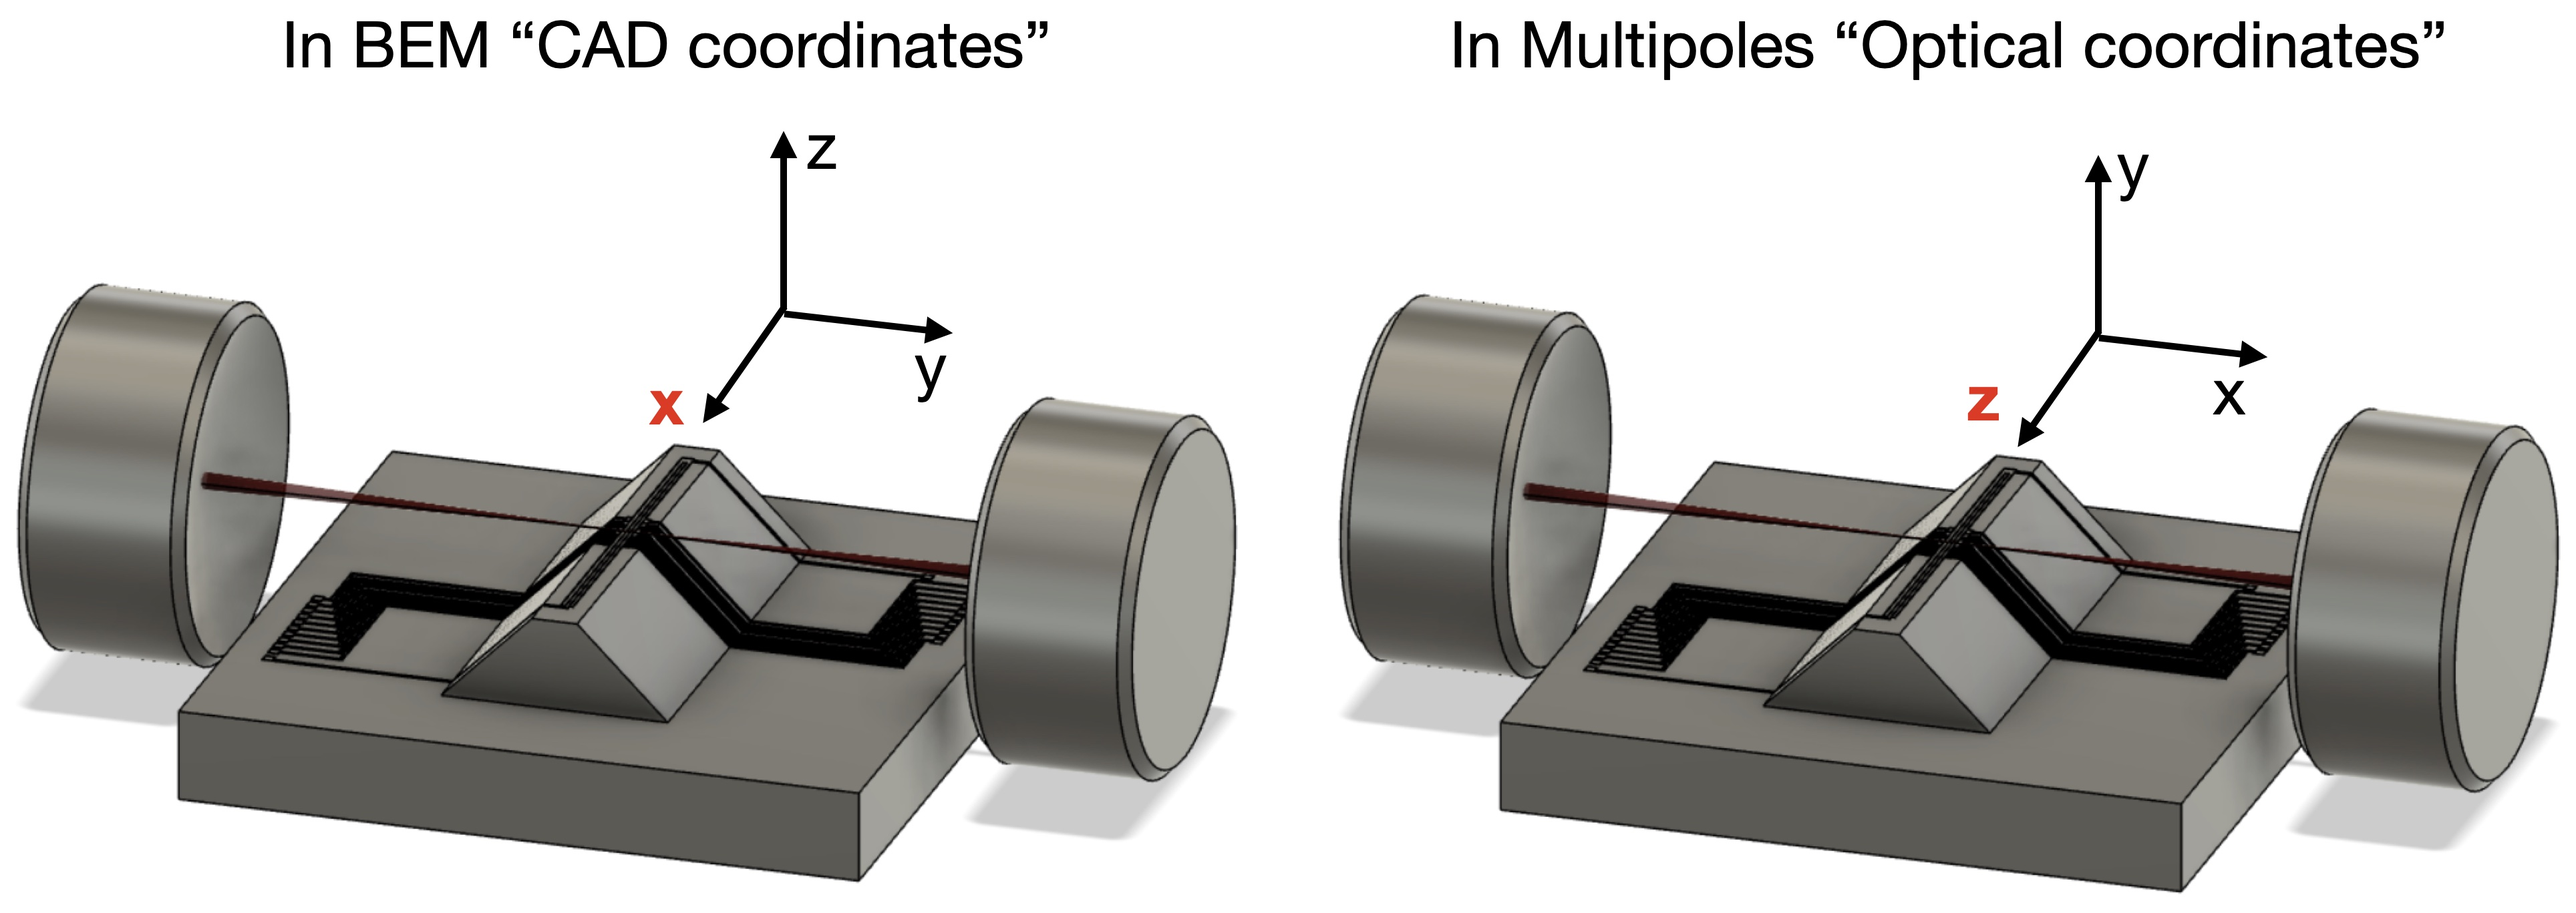
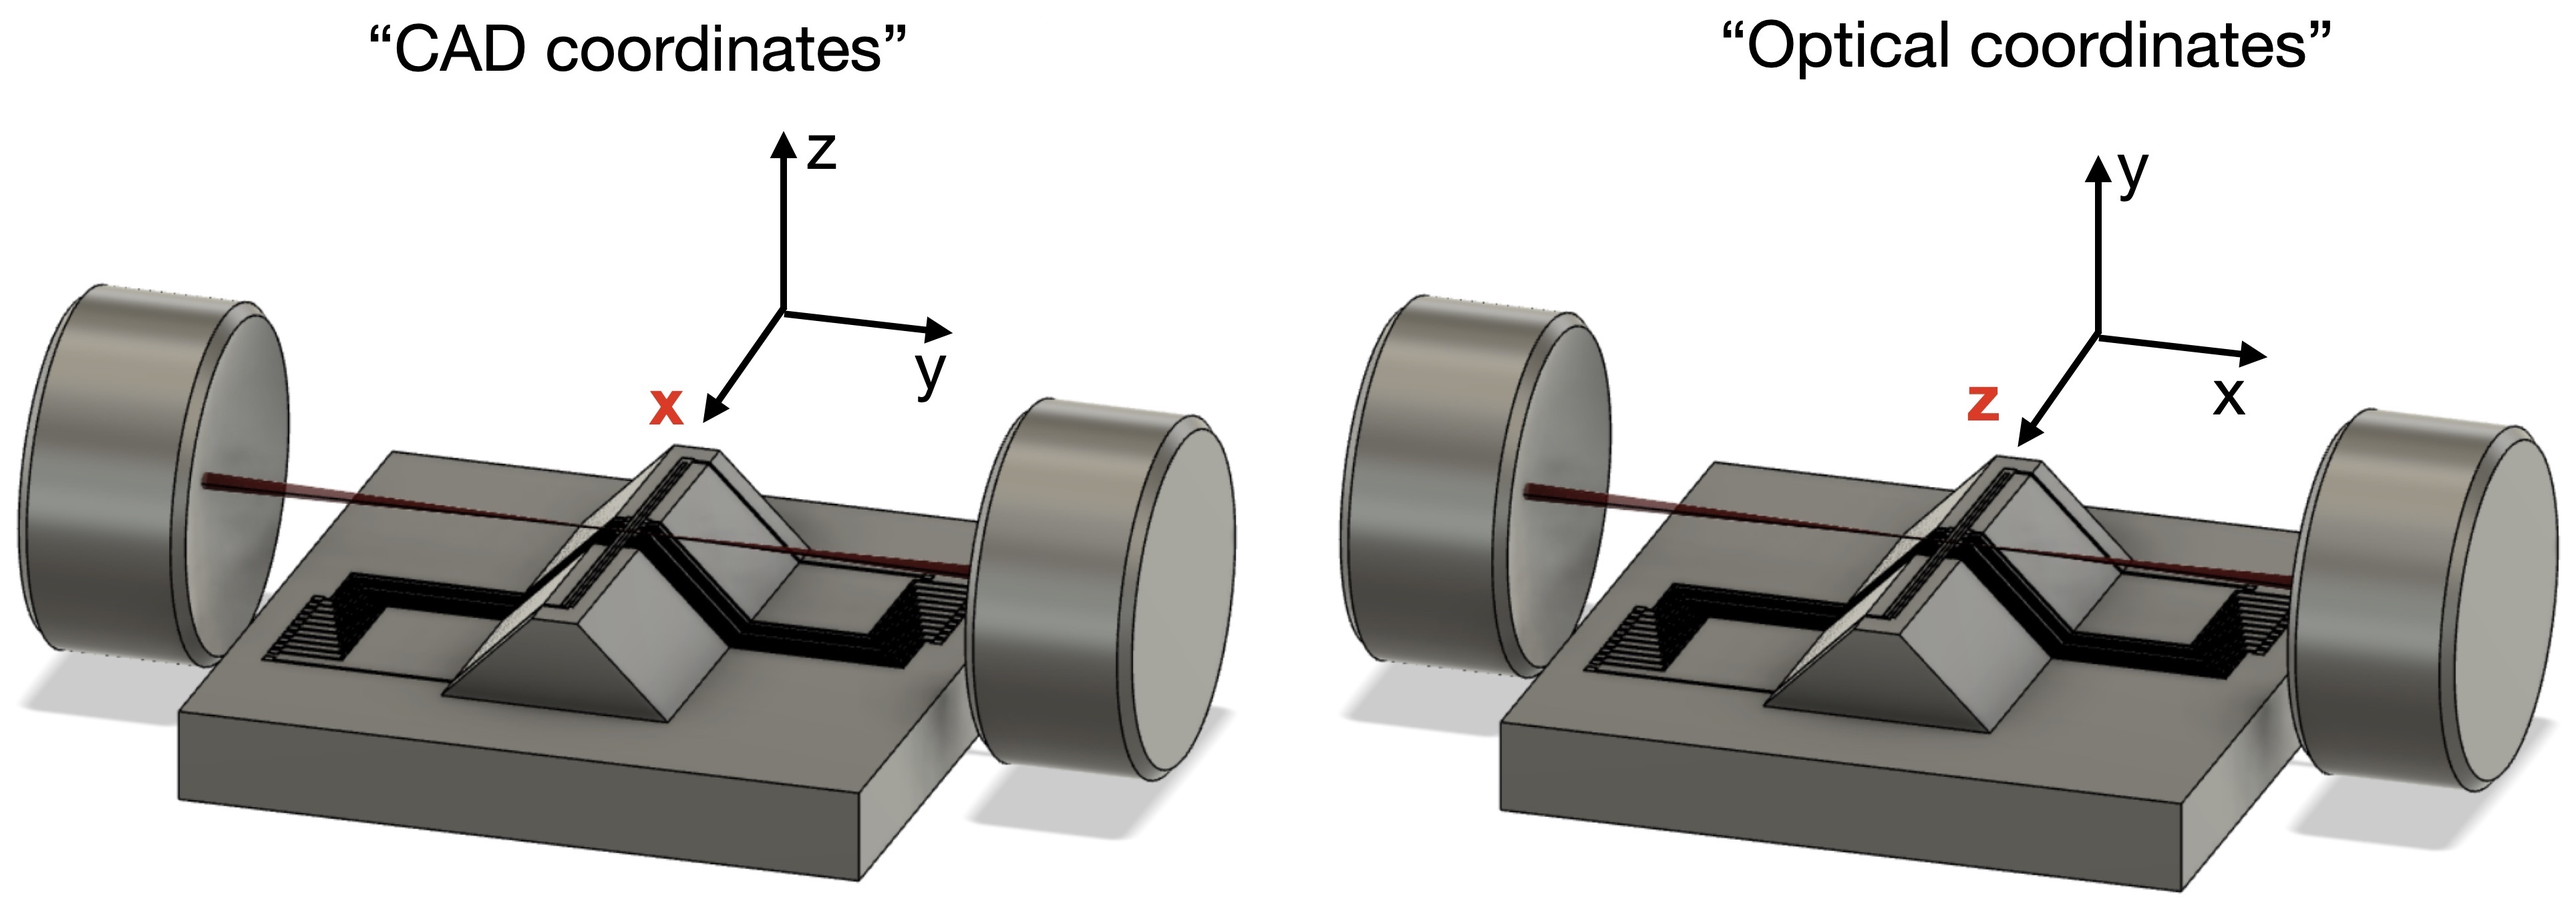
update documentation

Changed region(s): [[0.5602, 0.0, 0.9647, 0.0921], [0.0934, 0.0, 0.4046, 0.0921]]

diff --git a/README.md b/README.md
@@ -2,6 +2,8 @@
 
 For my simulations of the QuantNET trap, I created a fork of [haeffnerlab/bem](https://github.com/haeffnerlab/bem) called BEM-Savio. This is intended to be a leaner and better documented version of the BEM with further support for running BEM on Berkeley's high performance computing cluster (BRC-HPC) called Savio. 
 
+*Updated: Sept. 2022 YJZ*
+
 ## Table of contents
 - [What is BRC-HPC Savio?](#id-1)
 - [Savio Basics](#id-2)
@@ -15,7 +17,13 @@ For my simulations of the QuantNET trap, I created a fork of [haeffnerlab/bem](h
 
 ## What is BRC-HPC Savio?<div id='id-1'/>
 
-Explain here
+BRC-HPC is a high-performance computing cluster run by Berkeley Research Computing (BRC). The cluster consists broadly of login nodes and compute partitions. Data and software are stored in the cluster within your personal directory or a *shared group directory*. All nodes (login and compute) have access to these directories.
+
+![](imgs/savio.jpeg)
+
+SSH-ing into the cluster is handled by the 4 login nodes (a random node is assigned). You may test commands and scripts within the login in node, but the login nodes are a shared resource and not meant to handle large computational tasks.
+
+To schedule computational tasks (i.e. BEM simulations) to be run on a computing cluster, Savio uses slurm, a job scheduler. This is described in the sections below.
 
 ## Savio Basics <div id='id-2'/>
 
@@ -27,7 +35,7 @@ Note: if this is the first time you are reading this documentation, I suggest sk
 
 Our lab is granted 300,000 yearly service units via Hartmut's faculty allowance. To check that you have access to this computing allowance, login to [MyBRC](https://mybrc.brc.berkeley.edu/user/login) and check that the BRC Cluster Project ```fc_haeffnerbem``` appears on your dashboard. To be added to the project, please contact Hartmut or Yi.
 
-### Access to the Group Computing Allowance
+Note: service units are calculated based on the number of cores in the node you requested. E.g., if you run a program for 1 hr on a single core of a 16-core node, you will be charged 16 service units. Therefore, it is in your interest to use as many cores as possible (i.e. as many cores as the available memory allows).
 
 ### SSH
 
@@ -36,6 +44,53 @@ To ssh into the a login node,
 ```ssh your_BRC_username@hpc.brc.berkeley.edu```
 
 *The password is not your BRC pin*. One-time password authentication via your phone is required. If you have not already, set up OTP via Google Authenticator by following these [directions](https://docs-research-it.berkeley.edu/services/high-performance-computing/user-guide/setting-otp/). The password you must enter is ```XY``` where ```X``` is your BRC pin and immediately following with no spaces is ```Y``` the 6-digit one-time code from Authenticator. 
+
+### Access to the Group Computing Allowance
+
+The hardware configurations for each of the Savio partitions may be found [here](https://docs-research-it.berkeley.edu/services/high-performance-computing/user-guide/hardware-config/#Savio-Hardware). To find which accounts and partitions you have access to,
+
+```sacctmgr -p show associations user=$USER```
+
+![](imgs/sacctmgr.png)
+
+Since our simulations are generally limited by memory, we generally would like to choose bigmem nodes.
+
+### Modules and Custom Software
+
+A number of modules are installed in Savio. These modules can be loaded with the `module` command. For example, every time we run BEM, we want to first load Python (you can run Python without loading the Python module, but it is an outdated version).
+
+`module load python`
+
+**Note: this is a commonly forgotten step**
+
+We will install our own software in a conda environment in the shared directory `/global/home/groups/fc_haeffnerbem`. All users with access to our project has access to this shared directory. (Note: this might cause issues is multiple people want to run BEM at the same time. This can be resolved by installing and running BEM from each individual's personal directory.)
+
+A final quirk in using conda environments on Savio *not* using the normal `conda activate module_name` but rather,
+
+`source activate module_name`
+
+**This is also common source of error.**
+
+
+### Scheduling and Monitoring Jobs with slurm
+
+TODO TALK ABOUT SLURM SBATCH
+
+The ```sq``` module shows recent and pending jobs,
+
+```
+module load sq
+sq
+```
+
+
+Note: the directory where you run the ```sbatch``` command is the directory where you batch script runs.
+
+Note: you have to deactivate the enviornment before running the sbatch command
+
+### Transferring Data
+
+TODO
 
 ## Workflow Overview <div id='id-3'/>
 
@@ -75,10 +130,6 @@ Navigate to the bem-savio directory which contains ```setup.py``` and install BE
 
 ```pip install .```
 
-To optionally install Mayavi (for 3D visualization). Note: it is discouraged that you use Mayavi locally or on Savio. As of writing, Mayavi does not work on Savio. If Mayavi is not installed, you may see a warning that tvtk is not found when executing bem-savio. 
-
-```pip install 'vtk<9.1' 'PyQt5<5.16' ; pip install 'mayavi<4.8' ```
-
 To deactivate the environment,
 
 ```conda deactivate ``` 
@@ -109,10 +160,6 @@ Navigate to the bem-savio directory which contains ```setup.py``` and install BE
 
 ```pip install .```
 
-To optionally install Mayavi (for 3D visualization). Note: it is discouraged that you use Mayavi locally or on Savio. As of writing, Mayavi does not work on Savio. If Mayavi is not installed, you may see a warning that tvtk is not found when executing bem-savio. 
-
-```pip install 'vtk<9.1' 'PyQt5<5.16' ; pip install 'mayavi<4.8' ```
-
 To deactivate the environment,
 
 ```source deactivate ``` 
@@ -121,10 +168,10 @@ To deactivate the environment,
 
 ### Coordinates
 
-First, create a model of the trap in Fusion360. Check that you are working in CAD coordinates (see figure below). In other words, the trap axis in Fusion360 should be along the x-axis and the vertical direction should be along the z-axis.
+First, create a model of the trap in Fusion360. Check that your model follows optical coordinates (see figure below). In other words, the trap axis in Fusion360 should be along the z-axis and the vertical direction should be along the y-axis.
 
 ![imgs/coords.jpg](imgs/coords.jpg)
-<center><figcaption>During different stages of running bem-savio, two different conventions for coordinates are used. In CAD coordinates, x is along the trap axis and in optical coordinates z is along the trap axis.</figcaption></center>
+<center><figcaption>There are two standard conventions for coordinates. In CAD coordinates, x is along the trap axis and in optical coordinates z is along the trap axis. **Throughout BEM, we will always used optical coordinates.**</figcaption></center>
 
 Additionally, ensure that your trap model is a single body in Fusion360. When exporting, each body becomes its own STL and we wish to have the trap as a single STL.
 
@@ -189,7 +236,8 @@ Your directory tree should now look like this,
 	run.py
 	\jobs
 		\example
-			\...
+			\pyramidtrap.stl
+			\JOB_CONFIG.py
 		\your-job-name
 			\your-model.stl
 			\JOB_CONFIG.py
@@ -213,14 +261,19 @@ STL_file = 'your-model.stl'
 mesh_units = 1e-3
 
 # plotting settings
+plot_three_d = False
 show_plots = True
 save_plots = True
 save_plots_dpi = 1000
 ```
 
 - ```STL_file```: the name of the STL model located in your job directory. For example, ```STL_file = 'pyramidtrap.stl'```.
-- ```mesh_units``` are the units in which the STL file were exported.
-- `show_plots`, `save_plots`, and `save_plots_dpi`: toggles whether plots of the mesh before and after re-meshing should be shown/saved.
+- ```mesh_units``` are the units in which the STL file were exported. This should always be mm.
+- `show_plots`, `save_plots`, and `save_plots_dpi`: toggles whether plots of the mesh before and after re-meshing should be shown/saved. The default behavior is a 2D of the mesh projected to the z-x plane (i.e. top-down view). Optionally, `plot_three_d` toggles if the mesh should be plot in a 3D view.
+
+![imgs/coords.jpg](imgs/plots.jpg)
+<center><figcaption>Sample plots of the mesh, 2D and 3D.</figcaption></center>
+
 
 ### JOB_CONFIG: Naming Electrodes
 
@@ -256,16 +309,16 @@ In order to configure the grid, we must specify,
 ```
 # specify grid origin
 x0 = 0*1e-3
-y0 = 0*1e-3
-z0 = 2 + 75*1e-3
+y0 = 2 + 75*1e-3
+z0 = 0*1e-3
 
 # specify grid points
-Lx, Ly, Lz = 0.500, 0.100, 0.200 
+Lx, Ly, Lz = 0.100, 0.200, 0.500
 s = 0.0025
 sx, sy, sz = s, s, s
 ```
 
-In the example above, we define the origin as at the center of the xy-plane and at a height of 2000+75 microns because the raise trap surface is 2 mm tall and we expect our trapping height to be 75 microns. Furthermore, we define the set of grid points over a volume of 500 x 100 x 200 microns with points every 2.5 microns in all directions (recall ```mesh_units=1e-3```).
+In the example above, we define the origin as at the center of the zx-plane and at a height of y=2000+75 microns because the raise trap surface is 2 mm tall and we expect our trapping height to be 75 microns. Furthermore, we define the set of grid points over a volume of 100 x 200 x 500 microns with points every 2.5 microns in all directions (recall ```mesh_units=1e-3```).
 
 ### Compile Test!
 
@@ -281,32 +334,128 @@ python run.py [your-job-name]
 
 ### JOB_CONFIG: Re-meshing
 
-There are three main re-meshing operations:
+We use `mesh.triangulate` and `mesh.areas_from_constraints` to re-mesh. In `JOB_CONFIG.py`, define a new function `remesh`, and place all re-meshing code (e.g. calls to `mesh.triangulate`) within this function.
 
-1. Increasing density:
-2. Increasing density with areas from constraints: 
-3. Improving triangle quality: 
+```
+def remesh(mesh):
+	# TODO
+```
+
+There are three main re-meshing operations (note: the documentation for triangulate may be found [here](doc/Triangle_ Command line switches.pdf) and contains less-common options):
+
+**<u>1. Improving triangle quality</u>**: the quality of a triangle is defined by the minimum angle of all triangles. 
+
+![](imgs/quality.jpg)<center><figcaption>Bad and better quality triangles.</figcaption></center>
+
+To increase the quality (minimum angle) run,
+
+`mesh.triangulate(opts='q30Q')`
+
+where `q` is the quality flag, `30` specifies the minimum angle, and `Q` specifies that the triangulation should run quietly (little output). You may change `30` to any minimum angle desired. Note that (from the documentation): if the minimum angle is 20.7 deg or smaller, the triangulation algorithm is theoretically guaranteed to terminate;
+in practice, the algorithm often succeeds for minimum angles up to 33 deg; it usually doesn't terminate for angles above 34 deg. If the angle you specify is too large, the triangulation will not terminate.
+
+**<u>2. Increasing density</u>**: to increase the density of triangles, there is an option to specify the maximum triangle area. With this option, `mesh.triangulate` will add triangles until all triangles have an area smaller than the maximum area.
+
+`mesh.triangulate(opts='a0.1Q')`
+
+where `a` is the maximum area flag, `0.1` specifies the maximum area, and `Q` specifies that triangulate should run quietly.
+
+![](imgs/density.jpg)<center><figcaption>Increasing the triangle density with the `a` flag.</figcaption></center>
+
+**<u>3. Increasing density with areas from constraints</u>**: we often wish to increase the density of an area of interest while but not the density globally. This way, we obtain greater charge resolution near the region of interest while sacrificing the resolution of charges far away in favor of a faster runtime.
+
+In BEM, first call the function `mesh.areas_from_constraints` which internally sets the maximum area parameter (described previously) based on some constraint,
+
+`mesh.areas_from_constraints(constraint)`
+
+where `constraint` defines the geometry of our region on interest. There are two types of constraint objects. First is the sphere,
+
+`Sphere(center=np.array(x0,y0,z0), radius=rad, inside=in_density, out=out_density)`
+
+where `center` is the center of the sphere, `radius` is the radius of the sphere, `in_area` is the maximum area of triangles inside the constraint, and `out_area` is the maximum area of triangles outside the constraint (generally `in_area`<`out_area`).
+
+Second is the cylinder,
+
+`Cylinder(start=np.array(x0,y0,z0-2.5), end=np.array(x0,y0,z0+2.5), radius=rad, inside=in_density, out=out_density)`
+
+where `start` and `end` are two points that (when connected in a line) form the axis of the cylinder, and `rad` is the radius of the cylinder.
+
+After defining the areas from constraints, we must call triangulate to actually tell mesh to re-mesh based on the areas we have defined: `mesh.triangulate(opts='Q',new=False)`. An example of this entire process:
+
+```
+in_area = 1e-4
+out_area = 0.1
+rad = 5*75e-3 # five times the hypothesized ion height
+
+mesh.areas_from_constraints(Sphere(center=np.array([x0,y0,z0]),radius=rad,inside=in_area,outside=out_area))
+mesh.triangulate(opts='Q',new=False)
+```
+
+![](imgs/constraint.jpg)<center><figcaption>Example of a spherical and cylindrical constraint. Note that the shape of the region of interest do not look very clean. This is because `mesh.areas_from_constraints` only increases the density of a region if all vertices of the existing triangle fall within the constraint. Therefore, a coarse initial mesh will lead to **aliasing**. The solution is to slightly increase the density of the global mesh before defining areas from constraints.</figcaption></center>
+
+**Full Example**: it is encouraged to increase the density piece by piece to obtain the best quality mesh. The following is a full example of the `remesh` function,
+
+```
+def remesh(mesh):
+	# global
+	mesh.triangulate(opts="q30Q",new = False)
+	mesh.triangulate(opts='1Q', new=False)
+	
+	# first refinement
+	# believe ion height is approx. 75 micron
+	inside=1e-1
+	outside=1
+	rad = 5*75e-3
+	mesh.areas_from_constraints(Sphere(center=np.array([x0,y0,z0]),radius=rad, inside=inside, outside=outside))
+	mesh.triangulate(opts="Q",new = False)
+	
+	# second refinement
+	inside=1e-3
+	outside=1e-1
+	rad = 2*75e-3
+	mesh.areas_from_constraints(Sphere(center=np.array([x0,y0,z0]),radius=rad, inside=inside, outside=outside))
+	mesh.triangulate(opts="Q",new = False)
+```
+
+After configuring the re-meshing, you are not ready to run the simulation itself!
 
 ## 3. BEM Electrostatics <div id='id-7'/>
 
-Explain what BEM is actually doing placing charges
+BEM simulates the potential generated by each electrode at each of the grid points. When multiprocessing, each electrode is a distinct project. For each electrode: when BEM finishes calculating the potentials, the result is saved in a pickle file in `pkls`. After the entire simulation is finished, a final pickle file named info stores information about the configuration (i.e. the grid, `x0`, `y0`, `z0`, etc). When loading in our results for multipole analysis, the configuration of the simulation is easily reloaded from this file.
+
+**TODO** Explain what BEM is actually doing placing charges
+
 
 ### run.py Flags
 
 The full behavior of `run.py`:
 
-`python run.py [job-name] -r -s -n=[cores]`
+`python run.py [job-name] -r -s -n=[cores] -R`
 
 - **`[job=name]`: required argument.** Name of your job directory in `RUN/jobs/`.
-- `-r`: run BEM electrostatics after setup. The default behavior of this script completes all setup steps (read STl, name electrodes, re-mesh, generate grid), but exits without running electrostatics.
-- `-s`: Savio mode. Sets -r, use_multiprocessing=True, and show_plots=false
+- `-r`: run BEM electrostatics after setup. The default behavior of this script completes all setup steps (read STL, name electrodes, re-mesh, generate grid), but exits without running electrostatics.
+- `-s`: Savio flags. Sets -r, `use_multiprocessing=True`, and `show_plots=false`. These are options that help Savio run smoothly and you are encouraged to use this flag when running on Savio
 - `-n`: when multiprocessing, this flag specifies the number of cores that should be used. By default, all cores are used. However, if your simulation is bottlenecked by memory, this command can be used to specify fewer multiprocesses.
+- `-R`: resume. If a simulation terminates before all electrodes have been run, resuming will first search for all electrodes that have successfully run in `pkls` and skip those electrodes.
 
 ### Running Locally
 
+Ensure that your job directory and `JOB_CONFIG.py` are populated as described in the previous sections. Ensure that BEM is installed. Navigate to the `bem-savio/RUN` folder, activate the environment and run the `run.py` script,
+
+```
+conda activate bem39
+python run.py [job-name] -r
+```
+
+without the `-r` flag, `run.py` will perform all the setup steps but stop short of actually running the simulation. You should first tweak the configuration/setup of your simulation by running without the `-r` flag. Once you are happy with the configuration, include the flag to run the simulation.
+
 ### Running on Savio
 
+TODO
+
 ## 4. Multipoles, Analysis, and Control <div id='id-8'/>
+
+NOTE: THE CURRENT CODE FOR PERFORMING THESE STEPS (VERY MESSY) IS IN `bem-savio/RUN/Multipoles and Analysis.ipynb`. 
 
 ### Plotting Potentials
 
@@ -317,38 +466,11 @@ The full behavior of `run.py`:
 
 
 
-## TODOs <div id='id-9'/>
-- wenhao get more colors?
+## TODOs <div id='id-9'/>s
+- Add more colors to the bemcols library. Currently, only 40 electrodes are supported.
+- There remains the question: what RF frequency is used to calculate the psuedopotential? Presumably, it's in the electrostatics code somewhere.
+- Clean up (i.e. maybe place useful plotting/multiples/etc functions in helper_functions and clean up existing functions in helper_functions) multiple and analysis. Document here (section 4) including what is actually happening in multipoles behind the scenes (defining ROI, performing multipole fit, etc).
 
-
-## END END
-
-
-
-
-## V. Running BEM on Savio
-
-To find which accounts and partitions (within those accounts) that you have access to,
-
-```sacctmgr -p show associations user=$USER```
-
-![](imgs/sacctmgr.png)
-
-The hardware configurations for each of the Savio partitions may be found [here](https://docs-research-it.berkeley.edu/services/high-performance-computing/user-guide/hardware-config/#Savio-Hardware).
-
-The ```sq``` module shows recent and pending jobs,
-
-```
-module load sq
-sq
-```
-
-
-Note: the directory where you run the ```sbatch``` command is the directory where you batch script runs.
-
-Note: you have to deactivate the enviornment before running the sbatch command
-
-sacct -j 12572927 --format=JobID,JobName,MaxRSS,Elapsed
 
 
 
